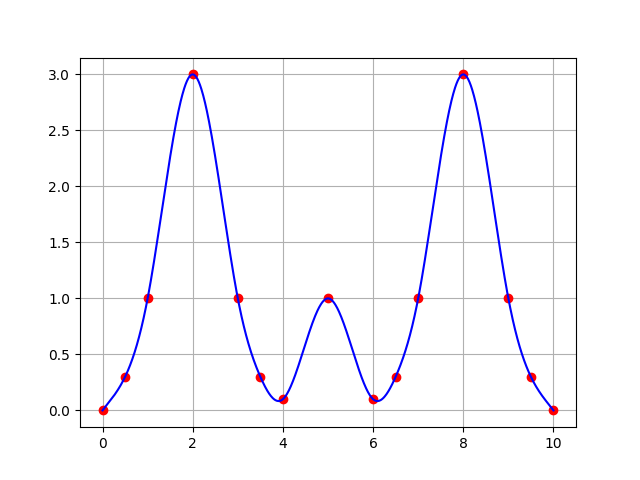
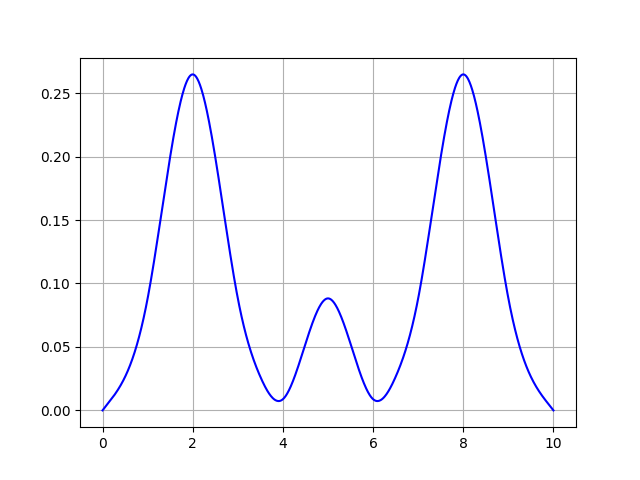
add text and example about probability function

diff --git a/l-03/code/e3.py b/l-03/code/e3.py
@@ -11,6 +11,13 @@ yis = f(xis)
 
 yis = yis / (sum(yis) * 10/1000)
 
-plt.plot(xis, yis, "b")
+F = []
+prev = 0
+for y in yis:
+    s = y * 0.01
+    F.append(prev + s)
+    prev += s
+
+plt.plot(xis, F, "b")
 plt.grid(True)
-plt.savefig("e2.png")
+plt.savefig("e3.png")

diff --git a/l-03/notes.md b/l-03/notes.md
@@ -102,17 +102,18 @@ import matplotlib.pyplot as plt
 import numpy as np
 from scipy.interpolate import interp1d
 
-xs = [0, 0.5, 1, 2, 3, 3.5, 4,   5, 6,   6.5, 7, 8, 9, 9.5, 10]
-ys = [0, 0.3, 1, 3, 1, 0.3, 0.1, 1, 0.1, 0.3, 1, 3, 1, 0.3, 0]
+xs = np.array([0, 0.5, 1, 2, 3, 3.5, 4,   5, 6,   6.5, 7, 8, 9, 9.5, 10])
+ys = np.array([0, 0.3, 1, 3, 1, 0.3, 0.1, 1, 0.1, 0.3, 1, 3, 1, 0.3, 0])
 
 f = interp1d(xs, ys, kind="cubic")
 xis = np.linspace(0, xs[-1], 1000)
 yis = f(xis)
 
-plt.plot(xs, ys, "ro")
+yis = yis / (sum(yis) * 10/1000)
+
 plt.plot(xis, yis, "b")
 plt.grid(True)
-plt.savefig("e1.png")
+plt.savefig("e2.png")
 ```
 
 Я добавил точек и немного изменил некоторые значения для того, чтобы
@@ -121,7 +122,7 @@ plt.savefig("e1.png")
 
 ![Плавно](./code/e2.png)
 
-Небольшие пояснения. В этом кусочке кода:
+Небольшие пояснения. В этом фрагемнте кода
 
 ```
 f = interp1d(xs, ys, kind="cubic")
@@ -141,11 +142,67 @@ yis = f(xis)
 от 0 до 10 и к ним применяется функция f. Так у нас получается больше
 точек.
 
+Здесь
+
+```
+yis = yis / (sum(yis) * 10/1000)
+```
+
+я делаю так, чтобы интеграл плотности вероятности был равен
+единице. Почти.
+
 Пока мы просто "оцифровали" набросок.
 
+А надо сгенерировать числа. Вы помните, что плотность распределения
+вероятности - это производная функции распределения? Для нашей
+плотности веротяности функция распределения будет выглядеть примерно
+так:
 
-<!-- Кстати, вы помните, что плотность распределения вероятности - это -->
-<!-- производная функции распределения? -->
+![Схема](./pic/prob.png)
+
+Дополним наш код:
+
+```
+import matplotlib.pyplot as plt
+import numpy as np
+from scipy.interpolate import interp1d
+
+xs = np.array([0, 0.5, 1, 2, 3, 3.5, 4,   5, 6,   6.5, 7, 8, 9, 9.5, 10])
+ys = np.array([0, 0.3, 1, 3, 1, 0.3, 0.1, 1, 0.1, 0.3, 1, 3, 1, 0.3, 0])
+
+f = interp1d(xs, ys, kind="cubic")
+xis = np.linspace(0, xs[-1], 1000)
+yis = f(xis)
+
+yis = yis / (sum(yis) * 10/1000)
+
+F = []
+prev = 0
+for y in yis:
+	s = y * 0.01
+	F.append(prev + s)
+	prev += s
+
+plt.plot(xis, F, "b")
+plt.grid(True)
+plt.savefig("e3.png")
+```
+
+Здесь
+
+```
+F = []
+prev = 0
+for y in yis:
+	s = y * 0.01
+	F.append(prev + s)
+	prev += s
+```
+
+мы получаем функцию распределения. Каждое ее новое значение мы
+получаем как сумму предыдущего значения и очередного значения
+плотности вероятности, умноженного на шаг интерполирования. Т.е. мы
+численно интегрируем плотность вероятности.
 
 ## Домашнее задание
 
@@ -170,6 +227,8 @@ yis = f(xis)
    Automation (RPA), Moscow, Russia, 2019.
 1. [Probability density
    function](https://en.wikipedia.org/wiki/Probability_density_function)
+1. [Interpolation
+   (scipy.interpolate)](https://docs.scipy.org/doc/scipy/reference/tutorial/interpolate.html)
 1. [Quantile
    function](https://en.wikipedia.org/wiki/Quantile_function)
 1. [random — Generate pseudo-random
